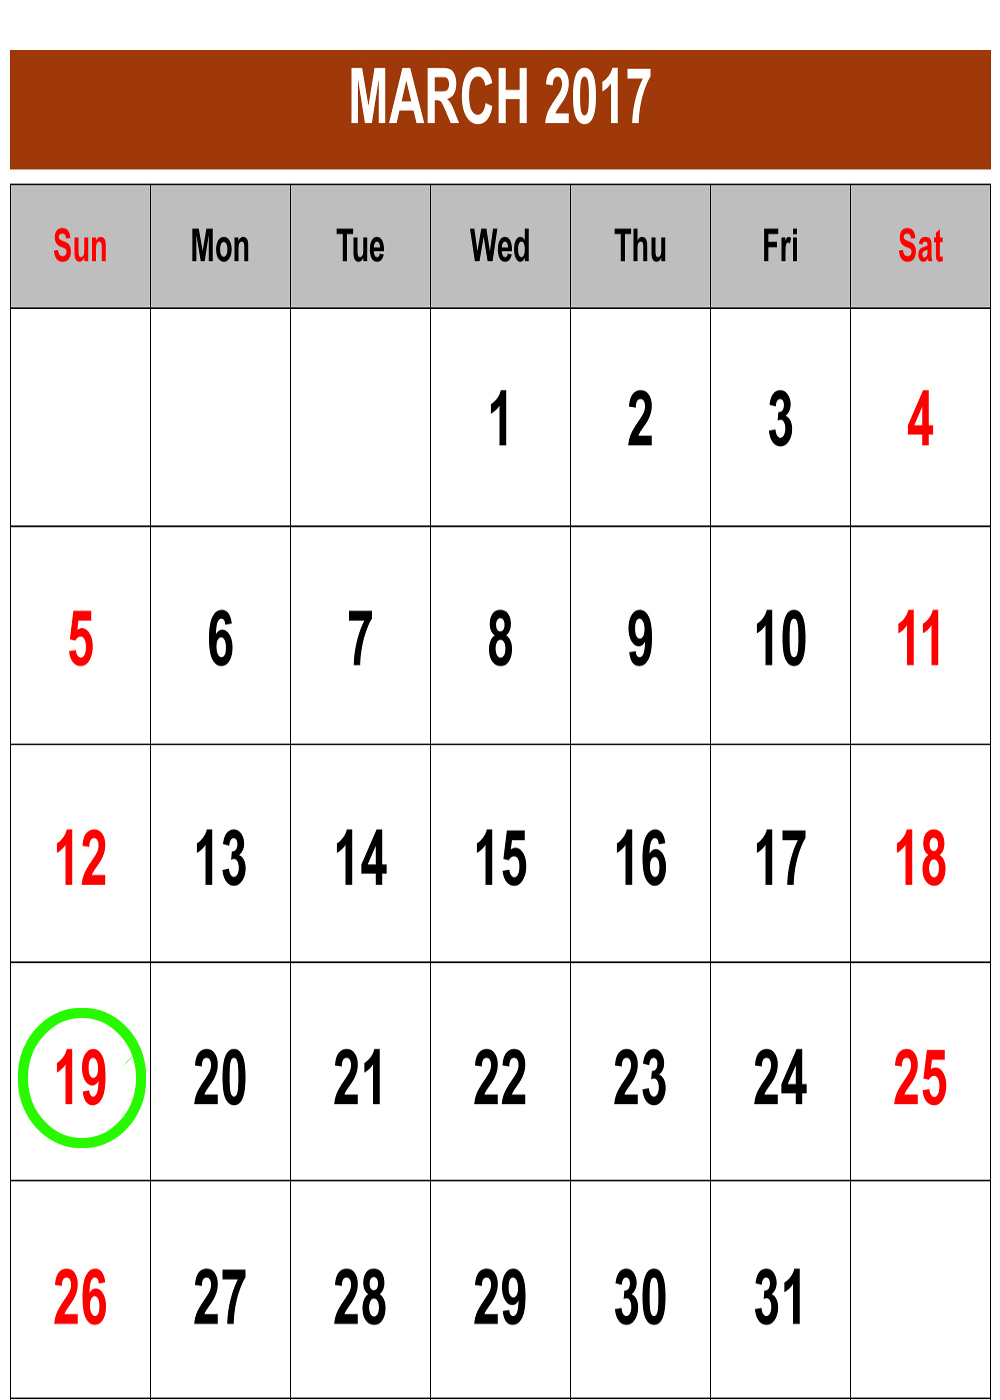
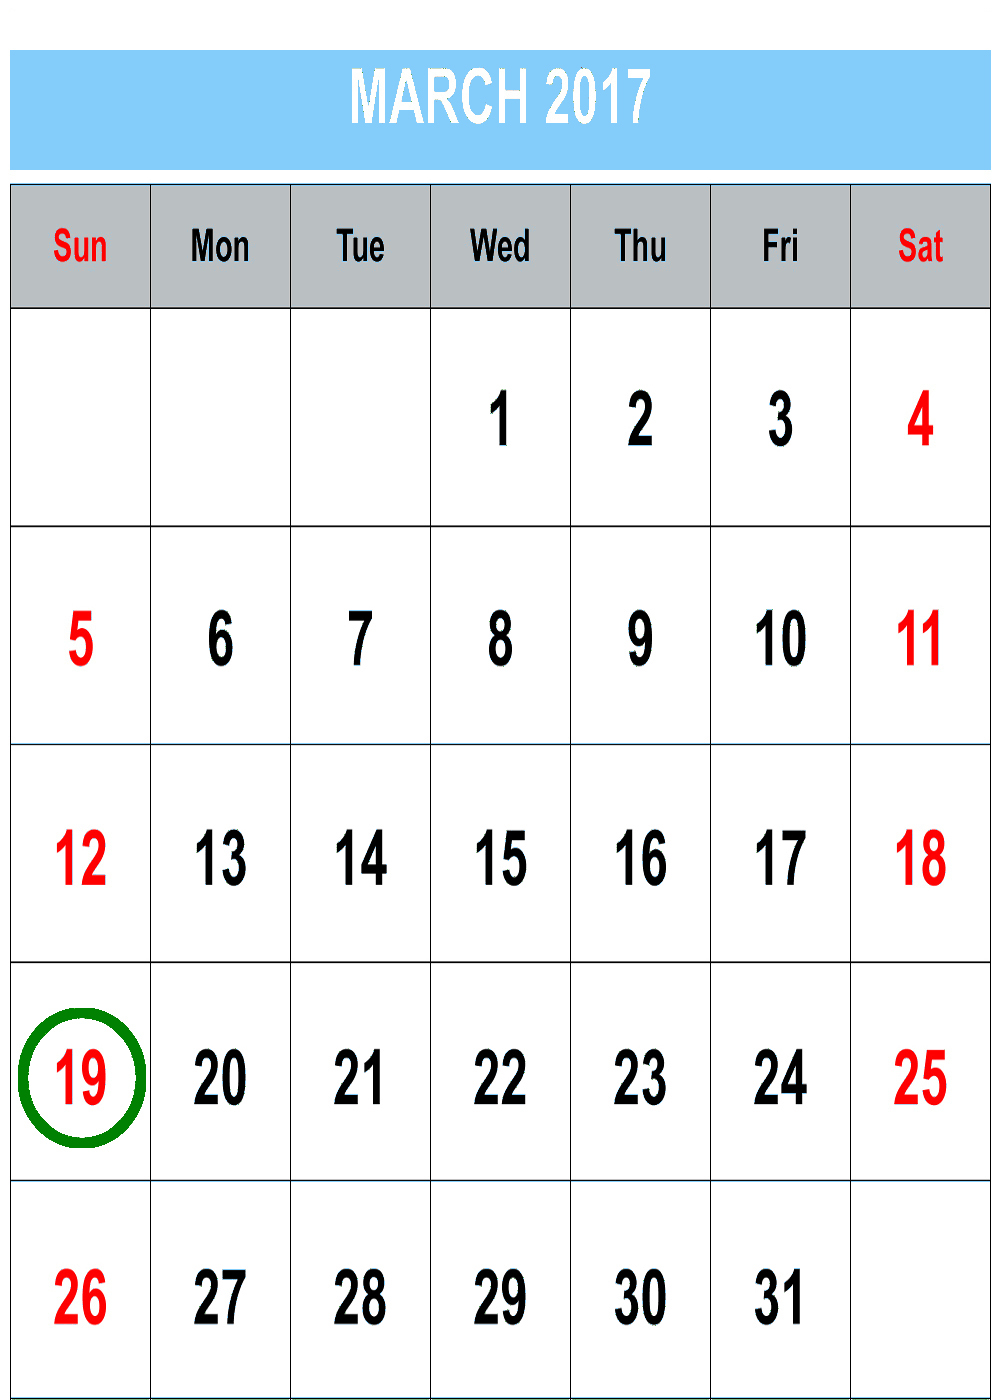
fajnie jest

diff --git a/OrtoMESH/Views/LipusPage.xaml b/OrtoMESH/Views/LipusPage.xaml
@@ -1,23 +1,20 @@
 <?xml version="1.0" encoding="UTF-8"?>
 <ContentPage xmlns="http://xamarin.com/schemas/2014/forms" xmlns:x="http://schemas.microsoft.com/winfx/2009/xaml" x:Class="OrtoMESH.LipusPage">
-<<<<<<< HEAD
+
 	<StackLayout HorizontalOptions="FillAndExpand" VerticalOptions="FillAndExpand">
 		<Image Source="OrtoLipus.jpg" Margin="60,180,0,0"/>
-	</StackLayout>
-=======
-	<StackLayout Margin="0,20,0,0" HorizontalOptions="CenterAndExpand" VerticalOptions="CenterAndExpand">
-		<Label 
-			x:Name="TimerLabel" 
-			TextColor="Black" />
-		>
+		
 		<ProgressBar 
-			x:Name="ProgressBar"
-			Progress="0"/>
+			x:Name="progressBar"
+			Margin="10,50,10,100"
+			Progress="0.0"
+			BackgroundColor="#85cefb"
+			/>
 		<Button 
 			Text="Back" 
 			TextColor="Black" 
 			WidthRequest="240" 
 			Clicked="BackButton_Clicked"/>
 	</StackLayout>	
->>>>>>> 3e63ed0... .
+
 </ContentPage>

diff --git a/OrtoMESH/Views/PatientPage.xaml b/OrtoMESH/Views/PatientPage.xaml
@@ -15,11 +15,11 @@
 		<ProgressBar 
 			HeightRequest="20"
 			Margin="20,0,20,0"
-			BackgroundColor="Green"/>
+			BackgroundColor="#85cefb"/>
 		<Button 
 			Text="Start"
 			FontAttributes="Bold"
-        	BackgroundColor="Green"
+        	BackgroundColor="#85cefb"
 			TextColor="White"
 			Clicked="Start_Clicked"
         	BorderRadius = "100"

diff --git a/OrtoMESH/Views/LipusPage.xaml.cs b/OrtoMESH/Views/LipusPage.xaml.cs
@@ -3,6 +3,8 @@ using System.Collections.Generic;
 using System.Threading.Tasks;
 using System.Threading;
 using Xamarin.Forms;
+using System.ComponentModel;
+
 
 
 namespace OrtoMESH
@@ -11,14 +13,18 @@ namespace OrtoMESH
 	{
 		void BackButton_Clicked(object sender, System.EventArgs e)
 		{
-			Navigation.PopModalAsync();
+			Navigation.PushModalAsync(new PatientPage());
 		}
+
 
 		public LipusPage()
 		{
 
+
 			InitializeComponent();
+			progressBar.ProgressTo(1, 800000, Easing.Linear);
 
 		}
+
 	}
 }
